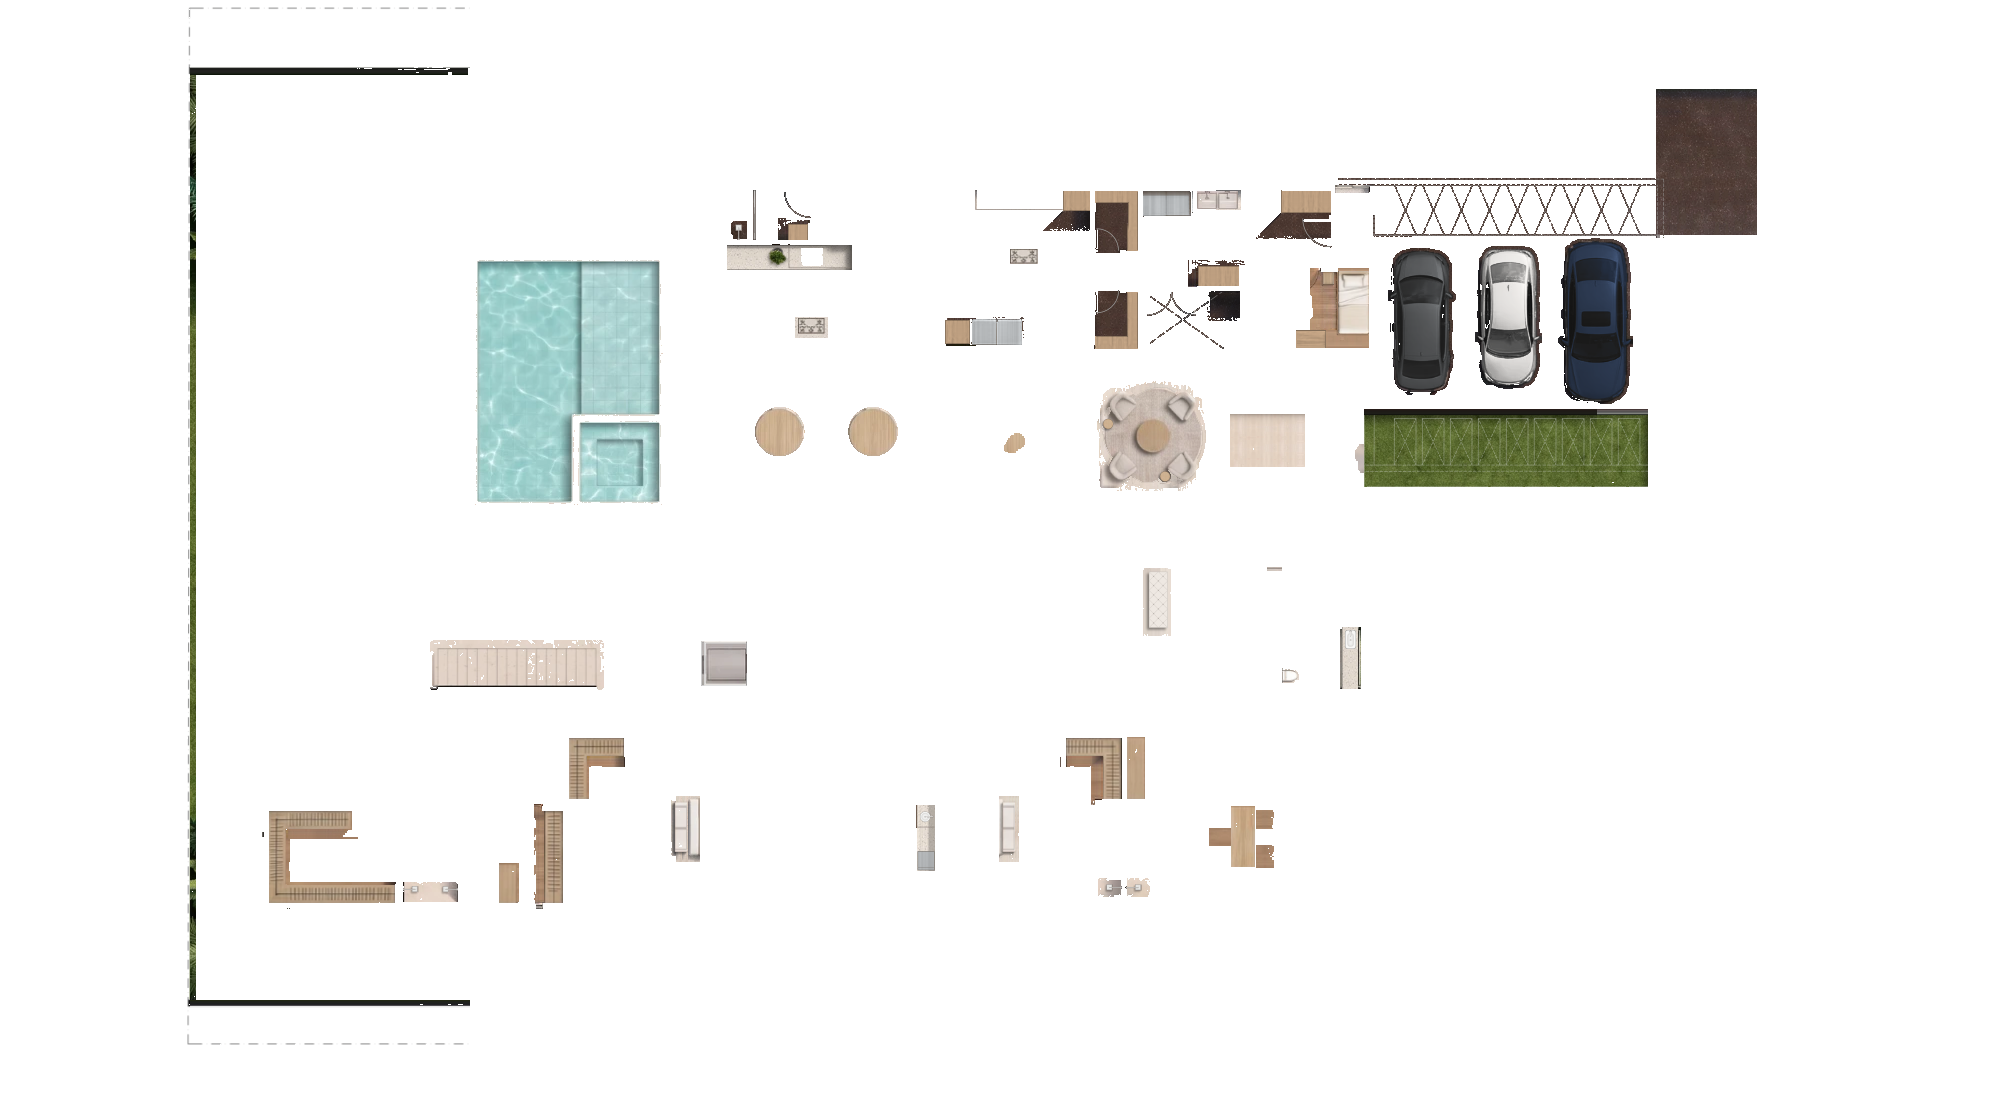
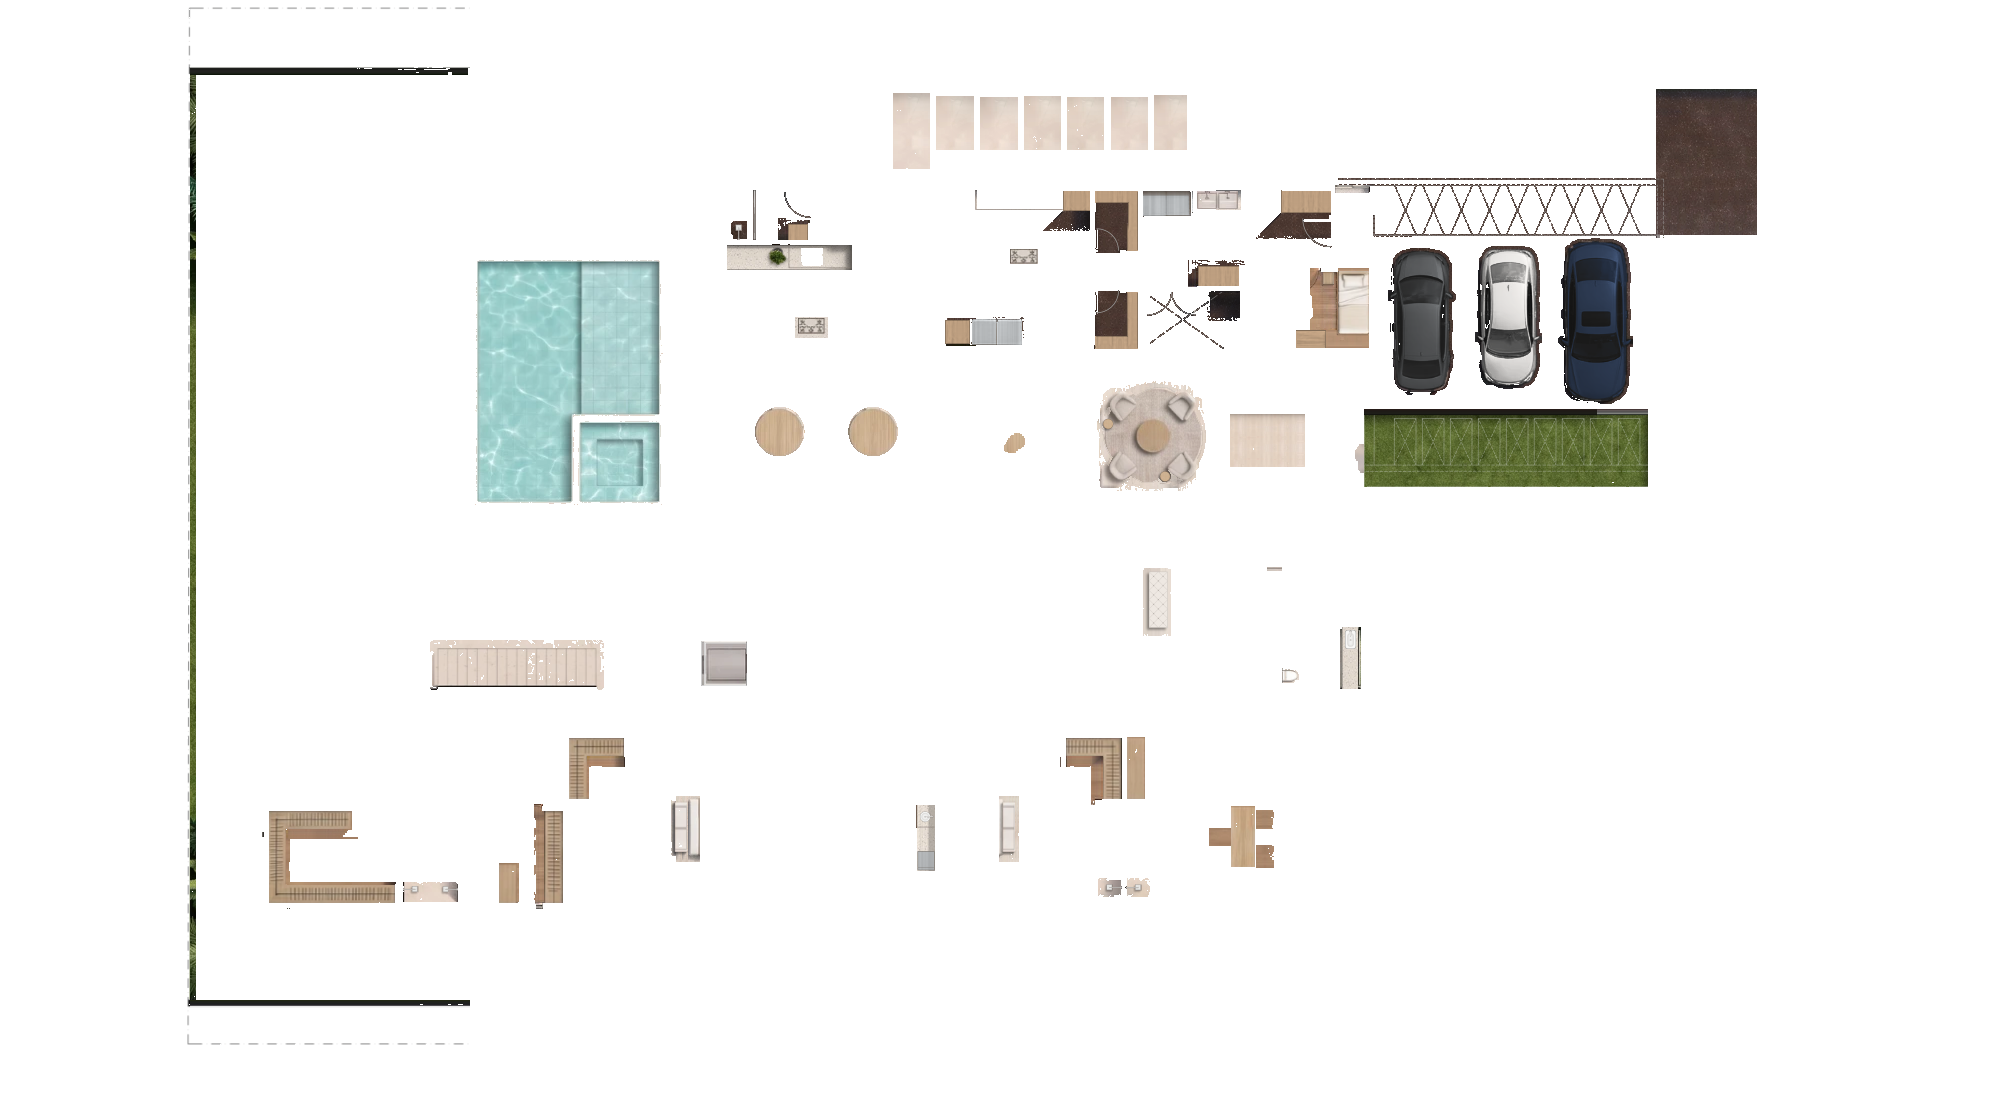
Casa D: Bege Bahia com veios nos pisantes de cima
Claude-Session: https://claude.ai/code/session_01Mm19WX3KoLN1nXMDF5Ay3F

Changed region(s): [[0.434, 0.0609, 0.62, 0.1523]]

diff --git a/projetos/POE642_CasaA/scripts/retoque_terreo_casad.py b/projetos/POE642_CasaA/scripts/retoque_terreo_casad.py
@@ -169,6 +169,10 @@ Os itens são corrigidos um a um, na ordem pedida pelo usuário.
 38. Veios do mobiliário do DCE (pedido do usuário: a marcenaria ficou lisa): o veio vem do tampo da
    escrivaninha do escritório na segunda imagem (o de veio mais marcado), girado para correr no
    comprimento de cada peça e um pouco realçado; o tom e a borda de cada peça ficam.
+39. Pisantes de cima em Bege Bahia (pedido do usuário: as pedras ficaram lisas): cada pedra recebe a pedra
+   do deck da piscina do próprio render (Bege Bahia com veio diagonal suave), tecida (image quilting), no
+   tom da pedra puxado para o do deck e com a luz dela (sombra do muro); a borda fica. A fileira junto à
+   garagem já tinha os veios e fica como está.
 
 As coordenadas estão em px do render (2000 x 1116).
 
@@ -669,6 +673,17 @@ VEIOS_DCE = {
     "fonte": (1232, 808, 1254, 865),                     # na segunda imagem alinhada
     "pecas": [("armário de baixo", (1296, 331, 1326, 348), "x"), ("criado-mudo", (1323, 272, 1334, 285), "y")],
     "realce": 1.6, "sigma": 3.0, "lim": (0.85, 1.15), "borda": 1,
+}
+
+# pisantes em Bege Bahia (pedido do usuário: as pedras de cima ficaram lisas). Cada pedra recebe a pedra do
+# deck da piscina do próprio render (Bege Bahia com os veios suaves), tecida (image quilting), no tom
+# da pedra e com a luz dela (borda, sombra do muro); a borda de 1 px fica
+PISANTES = {
+    "pedras": [(892, 92, 931, 170), (935, 95, 975, 151), (979, 96, 1019, 151), (1023, 95, 1062, 151),
+               (1066, 96, 1105, 151), (1110, 96, 1149, 151), (1153, 94, 1188, 151)],   # a fileira de cima
+    # (a fileira junto à garagem já tem os veios do motor e fica)
+    "fonte": [(565, 190, 698, 255)],                      # deck limpo acima da piscina (veio diagonal)
+    "sigma_luz": 4.0, "borda": 1,
 }
 
 
@@ -2235,6 +2250,25 @@ def veios_dce(out, f2):
     return out
 
 
+def pisantes(out):
+    q = PISANTES
+    e = q["borda"]
+    cor_fonte = np.median(np.concatenate([out[b:d, a:c].reshape(-1, 3) for a, b, c, d in q["fonte"]]).astype(np.float32), axis=0)
+    for x0, y0, x1, y1 in q["pedras"]:
+        x0, y0, x1, y1 = x0 + e, y0 + e, x1 - e, y1 - e
+        h, w = y1 - y0, x1 - x0
+        reg = out[y0:y1, x0:x1].astype(np.float32)
+        tom = np.median(reg.reshape(-1, 3), axis=0)
+        Y = reg.mean(axis=2)
+        luz = cv2.GaussianBlur(Y, (0, 0), q["sigma_luz"], borderType=cv2.BORDER_REFLECT) / Y.mean()
+        tex = textura(out, q["fonte"], h, w, p=32)
+        # o veio da fonte sobre o tom da pedra, puxado para o Bege Bahia do deck
+        alvo = 0.5 * tom + 0.5 * cor_fonte
+        out[y0:y1, x0:x1] = np.clip(tex * alvo * luz[..., None], 0, 255).astype(np.uint8)
+    print(f"    {len(q['pedras'])} pisantes com o Bege Bahia do deck (veios suaves)")
+    return out
+
+
 def main():
     ap = argparse.ArgumentParser(description=__doc__, formatter_class=argparse.RawDescriptionHelpFormatter)
     ap.add_argument("render", type=Path)
@@ -2318,6 +2352,8 @@ def main():
     out = chuveiros_23(out)
     print("[32] veios do mobiliário do DCE")
     out = veios_dce(out, f2)
+    print("[33] Bege Bahia dos pisantes")
+    out = pisantes(out)
 
     args.saida.mkdir(parents=True, exist_ok=True)
     cv2.imwrite(str(args.saida / f"{args.nome}.png"), out)

diff --git a/projetos/POE642_CasaA/scripts/README.md b/projetos/POE642_CasaA/scripts/README.md
@@ -267,6 +267,7 @@ Mesmo método da Casa C (render retocado sem IA, item por item, na ordem pedida 
 - **Chuveiros dos banhos 2 e 3:** `desenhar_chuveiro` (ducha, braço, canopla e sombra, como em `chuveiros_bhm`); `apagar` ganhou `lum_min` para a parede não escurecer a luz.
 - **Armários em L:** `armarios_L` (polígono do PDF por `mascara_pdf`, areia com o veio emprestado, contorno nas faces livres).
 - **Veios do DCE:** `veios_dce` (luminância da fonte sobre ela mesma desfocada, realçada, girada no comprimento da peça, vezes o tom desfocado da peça).
+- **Pisantes:** `pisantes` (quilting do deck limpo, no tom da pedra e com a luz desfocada dela).
 
 ```bash
 python retoque_terreo_casad.py ../../POE642_CasaD/renders/POE642_CasaD_PH_Terreo_v1_render.webp --saida ../../POE642_CasaD/renders --nome POE642_CasaD_PH_Terreo_v1_retocado

diff --git a/projetos/POE642_HANDOFF_SESSAO_LOCAL.md b/projetos/POE642_HANDOFF_SESSAO_LOCAL.md
@@ -404,3 +404,4 @@ python texturizar_base.py Subsolo ../../POE642_CasaC/bases/POE642_CasaC_BASE_Sub
   36. chuveiros dos banhos 2 e 3: o texto ilegível do motor sai e entram as duchas do PDF com braço até a parede do meio, como no banho master.
   37. louceiro e despensa: os armários em L do PDF voltam (areia, com veio, sem sombra de móvel baixo).
   38. veios de madeira no armário e no criado-mudo do DCE (veio da escrivaninha da segunda imagem).
+  39. pisantes de cima com o Bege Bahia do deck (veios suaves); a fileira junto à garagem já tinha veios.
